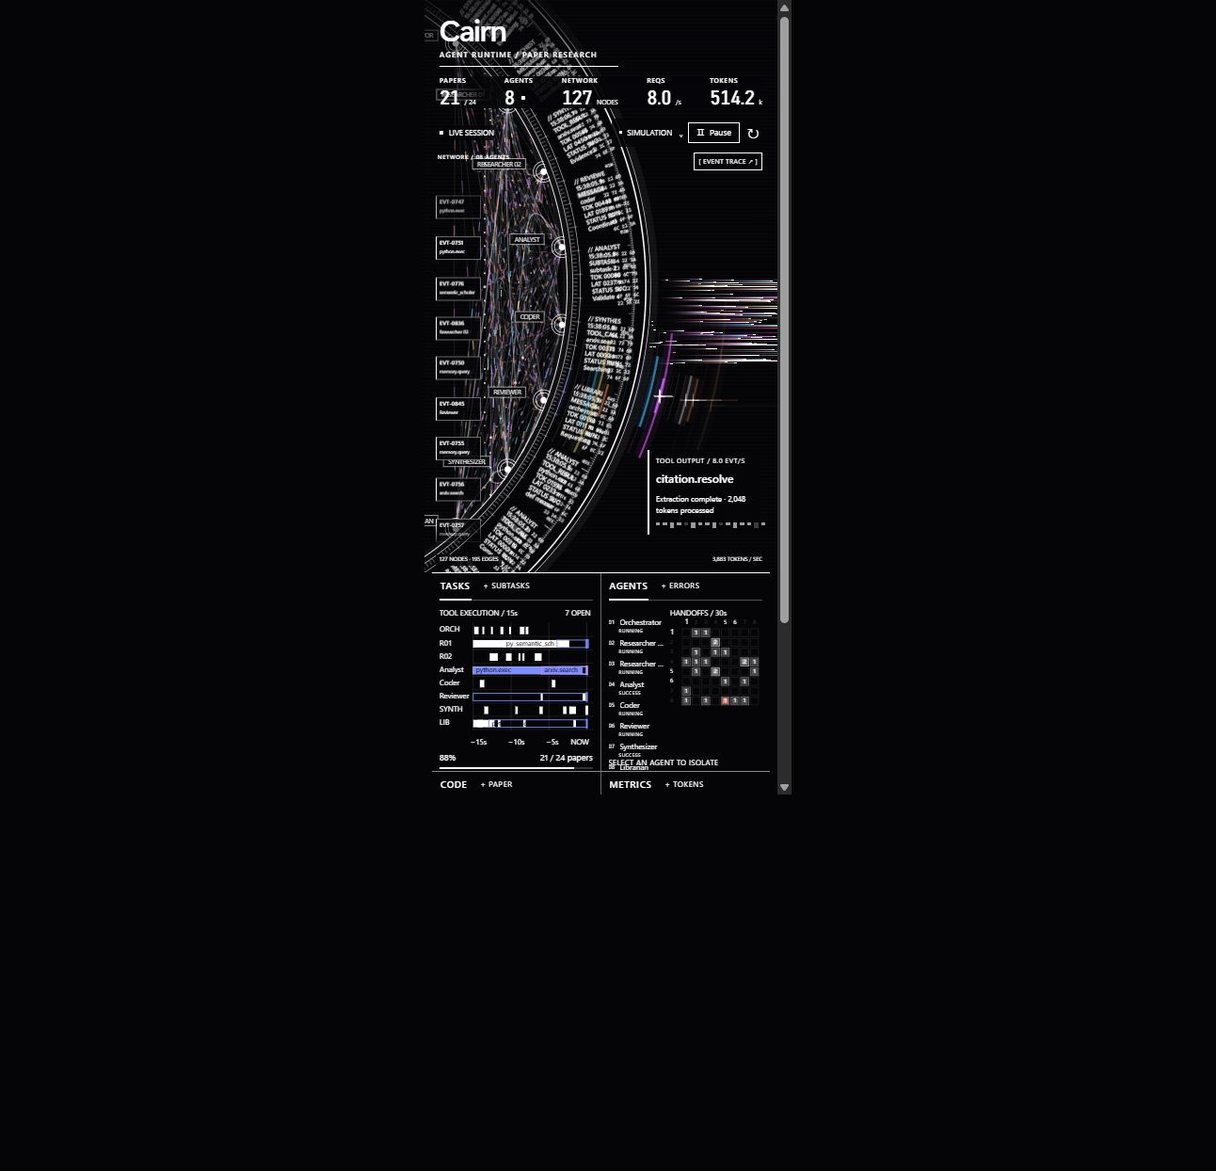
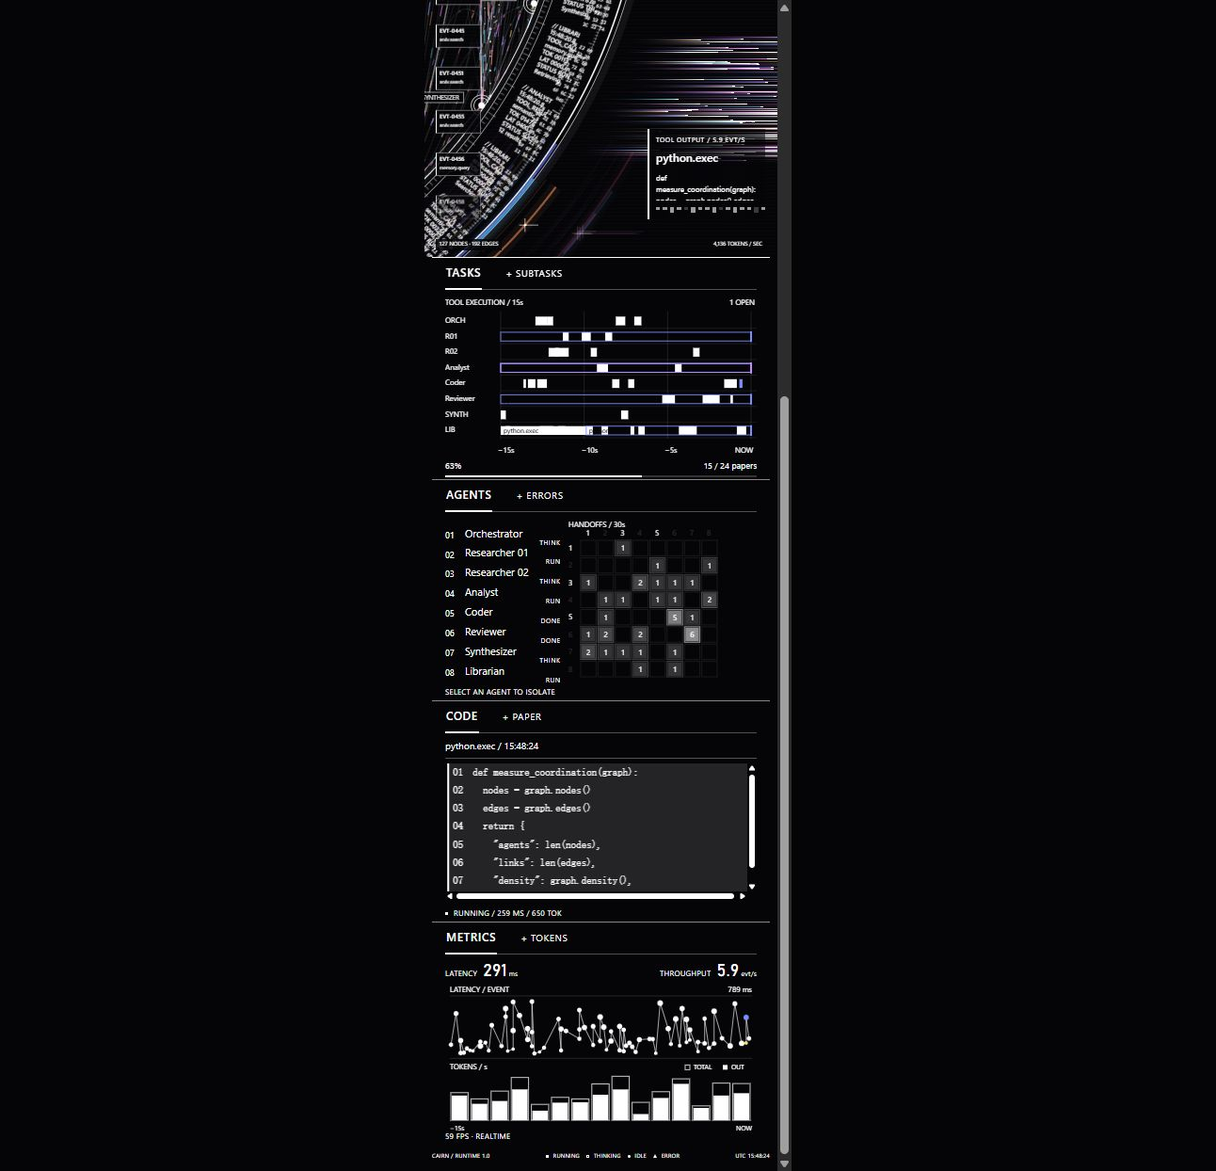
Update Site source

Changed region(s): [[0.3406, 0.0, 0.6502, 1.0]]

diff --git a/dist/app.js b/dist/app.js
@@ -28,7 +28,7 @@ const network=new Network($('network-canvas'),{nodes:new Map(),edges:new Map()},
 const micro=new EventInstruments(()=>engine,{onAgent:selectAgent});
 
 function boot(prime=true){
-  transport?.close();engine=new EventEngine({budget:engine?.budget??2000000,onBudget:()=>{syncPause();transport?.close();showNotice('Token 预算已用完，本地接收已暂停。提高预算后可继续，远端智能体不受影响。')}});network.engine=engine;selected=null;network.selected=null;horizon.ids=null;horizon.update([],null);stream.rays=[];energy.reset();$('latest-tool').textContent='—';$('latest-content').textContent='等待下一条事件';
+  transport?.close();engine=new EventEngine({budget:engine?.budget??2000000,onBudget:()=>{syncPause();transport?.close();showNotice('Token 预算已用完，本地接收已暂停。提高预算后可继续，远端智能体不受影响。')}});network.engine=engine;selected=null;network.selected=null;horizon.ids=null;horizon.update([],null);stream.reset();energy.reset();$('latest-tool').textContent='—';$('latest-content').textContent='等待下一条事件';
   transport=new Transport(engine,onTransportStatus);simulation=new Simulation(engine);mode=prime?'simulation':mode;started=Date.now();
   engine.subscribe(events=>{dispatch.push(events,engine.totalEvents);for(const e of events){if(e.type==='tool_call'||e.type==='tool_result')energy.spawn(e);if(['tool_result','output'].includes(e.type)){stream.spawn(e);$('latest-tool').textContent=e.tool||e.agentName;$('latest-content').textContent=e.content;if(e.type==='output'||/python|code|exec/.test(e.tool))renderCode(e.content,e)}}horizon.update(engine.events,selected)});
   if(!prime)renderCode('Waiting for code output…');
@@ -45,7 +45,8 @@ function togglePause(){if(!engine.paused){engine.pause('manual');if(mode!=='simu
 function selectAgent(id){selected=selected===id?null:id;network.selected=selected;$('selection-chip').hidden=!selected;$('selection-label').textContent=selected?engine.nodes.get(selected)?.name:'';horizon.ids='';horizon.update(engine.events,selected);logVersion=-1;renderAgents();if($('event-dialog').open)renderLog(true)}
 function renderAgents(){
   const agents=[...engine.nodes.values()].filter(n=>n.kind==='agent');$('active-agent-count').textContent=String(agents.length).padStart(2,'0');
-  $('agent-list').innerHTML=agents.slice(0,8).map((n,i)=>`<button class="agent-row ${selected===n.id?'selected':''}" data-agent="${escape(n.id)}" aria-pressed="${selected===n.id}" title="${escape(n.name)} — ${escape(n.status)}"><span class="agent-avatar">${String(i+1).padStart(2,'0')}</span><span class="agent-name">${escape(n.name)}</span><span class="agent-state" style="width:${9+Math.min(16,n.tokens/3000)}%"></span><span class="agent-status-label">${escape(n.status.toUpperCase().slice(0,7))}</span></button>`).join('')+(agents.length>8?`<button class="agent-more" id="more-agents">+ ${agents.length-8} more ↗</button>`:'');
+  const labels={running:'RUN',thinking:'THINK',idle:'IDLE',success:'DONE',complete:'DONE',error:'ERR',pending:'WAIT'};
+  $('agent-list').innerHTML=agents.slice(0,8).map((n,i)=>`<button class="agent-row ${selected===n.id?'selected':''}" data-agent="${escape(n.id)}" aria-pressed="${selected===n.id}" title="${escape(n.name)} — ${escape(n.status)}"><span class="agent-avatar">${String(i+1).padStart(2,'0')}</span><span class="agent-name">${escape(n.name)}</span><span class="agent-state" style="width:${9+Math.min(16,n.tokens/3000)}%"></span><span class="agent-status-label">${escape(labels[n.status]??n.status.toUpperCase())}</span></button>`).join('')+(agents.length>8?`<button class="agent-more" id="more-agents">+ ${agents.length-8} more ↗</button>`:'');
   $('agent-list').querySelectorAll('[data-agent]').forEach(b=>b.onclick=()=>selectAgent(b.dataset.agent));const more=$('more-agents');if(more)more.onclick=()=>openInspector();
 }
 function refreshUI(){
@@ -71,7 +72,7 @@ function refreshUI(){
 const codeLines=[['<span class="code-keyword">async def</span> <span class="code-function">coordinate</span>():'],['  <span class="code-comment"># shared intelligence</span>'],['  agents = <span class="code-keyword">await</span> spawn('],['    task=<span class="code-string">"research"</span>,'],['    workers=<span class="code-string">8</span>'],['  )'],['  <span class="code-keyword">for</span> agent <span class="code-keyword">in</span> agents:'],['    <span class="code-keyword">await</span> agent.<span class="code-function">run</span>()']];
 $('code-content').innerHTML=codeLines.map((l,i)=>`<span class="code-line"><span class="line-no">${i+1}</span>${l[0]}</span>`).join('');
 let codeHistory=[];
-function renderCode(content,event={}){const lines=content.split('\n').slice(0,12),previous=codeHistory;codeHistory=lines;$('code-content').innerHTML=lines.map((line,i)=>`<span class="code-line ${previous[i]!==line?'changed':''}"><span class="line-no">${String(i+1).padStart(2,'0')}</span>${escape(line)}</span>`).join('');document.querySelector('.code-panel .file-label').textContent=`${event.tool||'stdout'}${event.timestamp?' / '+new Date(event.timestamp).toISOString().slice(11,19):''}`;$('code-status').textContent=event.type?`${event.status.toUpperCase()} / ${event.latencyMs} MS / ${event.tokens} TOK`:'WAITING FOR OUTPUT';}
+function renderCode(content,event={}){let formatted=String(content);if(/^\s*[\[{]/.test(formatted))try{formatted=JSON.stringify(JSON.parse(formatted),null,2)}catch{}const lines=formatted.split('\n').slice(0,120),previous=codeHistory;codeHistory=lines;$('code-content').innerHTML=lines.map((line,i)=>`<span class="code-line ${previous[i]!==line?'changed':''}"><span class="line-no">${String(i+1).padStart(2,'0')}</span>${escape(line)}</span>`).join('');document.querySelector('.code-panel .file-label').textContent=`${event.tool||'stdout'}${event.timestamp?' / '+new Date(event.timestamp).toISOString().slice(11,19):''}`;$('code-status').textContent=event.type?`${event.status.toUpperCase()} / ${event.latencyMs} MS / ${event.tokens} TOK`:'WAITING FOR OUTPUT';}
 
 function openInspector(){logVersion=-1;$('event-dialog').showModal();renderLog(true)}
 function renderLog(force=false){

diff --git a/dist/instruments.js b/dist/instruments.js
@@ -8,7 +8,7 @@ const short=n=>n.name.replace('Researcher ','R').replace('Orchestrator','ORCH').
 export class EventInstruments{
   constructor(getEngine,{onAgent=()=>{}}={}){this.getEngine=getEngine;this.onAgent=onAgent;this.views={};this.hits={};this.version=-1;this.now=Date.now();this.model=null;
     for(const kind of ['tasks','agents','metrics']){const panel=document.querySelector(`.${kind}-panel`),canvas=document.createElement('canvas');canvas.className=`event-instrument instrument-${kind}`;canvas.setAttribute('aria-label',({tasks:'Actual tool execution spans by agent. Hover for durations and token counts.',agents:'Agent handoff matrix: each cell counts real source-to-target messages.',metrics:'Latency and token consumption plotted from actual event timestamps.'})[kind]);panel.append(canvas);this.views[kind]=new CanvasSurface(canvas);const tip=document.createElement('div');tip.className='instrument-tooltip';tip.hidden=true;panel.append(tip);
-      canvas.addEventListener('pointermove',event=>{const r=canvas.getBoundingClientRect(),x=event.clientX-r.left,y=event.clientY-r.top,hit=(this.hits[kind]??[]).find(a=>x>=a.x&&x<=a.x+a.w&&y>=a.y&&y<=a.y+a.h);canvas.style.cursor=hit?'pointer':'default';tip.hidden=!hit;if(hit){tip.textContent=hit.label;tip.style.left=`${clamp(x,0,panel.clientWidth-180)}px`;tip.style.top=`${Math.max(0,y-45)}px`}});canvas.addEventListener('pointerleave',()=>tip.hidden=true);canvas.addEventListener('click',event=>{const r=canvas.getBoundingClientRect(),x=event.clientX-r.left,y=event.clientY-r.top,hit=(this.hits[kind]??[]).find(a=>x>=a.x&&x<=a.x+a.w&&y>=a.y&&y<=a.y+a.h);if(hit?.agent)this.onAgent(hit.agent)})
+      canvas.addEventListener('pointermove',event=>{const r=canvas.getBoundingClientRect(),x=event.clientX-r.left,y=event.clientY-r.top,hit=(this.hits[kind]??[]).find(a=>x>=a.x&&x<=a.x+a.w&&y>=a.y&&y<=a.y+a.h);canvas.style.cursor=hit?(hit.agent?'pointer':'help'):'default';tip.hidden=!hit;if(hit){const box=panel.getBoundingClientRect();tip.textContent=hit.label;tip.style.maxWidth=`${Math.max(80,box.width-8)}px`;tip.style.left=`${clamp(event.clientX-box.left+8,4,Math.max(4,box.width-tip.offsetWidth-4))}px`;tip.style.top=`${clamp(event.clientY-box.top-tip.offsetHeight-8,2,Math.max(2,box.height-tip.offsetHeight-2))}px`}});canvas.addEventListener('pointerleave',()=>tip.hidden=true);canvas.addEventListener('click',event=>{const r=canvas.getBoundingClientRect(),x=event.clientX-r.left,y=event.clientY-r.top,hit=(this.hits[kind]??[]).find(a=>x>=a.x&&x<=a.x+a.w&&y>=a.y&&y<=a.y+a.h);if(hit?.agent)this.onAgent(hit.agent)})
     }
   }
   step(){}
@@ -34,7 +34,7 @@ export class EventInstruments{
     c.font='8px Segoe UI,Arial,sans-serif';c.fillStyle='#fff';c.fillText('LATENCY / EVENT',left,8);c.textAlign='right';c.fillText(`${Math.round(maxLatency)} ms`,right,8);c.textAlign='left';for(const y of [top,middle-8,bottom]){c.globalAlpha=.25;c.strokeStyle='#fff';c.lineWidth=.5;c.beginPath();c.moveTo(left,y);c.lineTo(right,y);c.stroke()}c.globalAlpha=1;
     const points=latency.map(a=>({event:a,x:left+(time(a)-start)/15000*plot,y:middle-10-a.latencyMs/maxLatency*(middle-top-16)}));c.beginPath();points.forEach((p,i)=>i?c.lineTo(p.x,p.y):c.moveTo(p.x,p.y));c.strokeStyle='#fff';c.lineWidth=.8;c.globalAlpha=.8;c.stroke();c.globalAlpha=1;
     for(const p of points){const fresh=this.now-time(p.event)<500,r=1.5+Math.min(2.3,Math.sqrt(p.event.tokens/800));c.fillStyle=fresh?colors[hash(p.event.eventId)%colors.length]:'#fff';c.beginPath();c.arc(p.x,p.y,r,0,Math.PI*2);c.fill();this.hits.metrics.push({x:p.x-4,y:p.y-4,w:8,h:8,label:`${p.event.tool||p.event.agentName}\n${p.event.latencyMs} ms · ${p.event.tokens} tokens`,agent:p.event.agentId})}
-    const buckets=Array.from({length:15},()=>[0,0]);for(const event of events){const idx=clamp(Math.floor((time(event)-start)/1000),0,14),output=['tool_result','output','message'].includes(event.type);buckets[idx][output?1:0]+=event.tokens}const max=Math.max(1,...buckets.map(a=>a[0]+a[1])),bar=plot/15;c.font='8px Segoe UI,Arial,sans-serif';c.fillStyle='#fff';c.fillText('TOKENS / SECOND',left,middle+4);
+    const buckets=Array.from({length:15},()=>[0,0]);for(const event of events){const idx=clamp(Math.floor((time(event)-start)/1000),0,14),output=['tool_result','output','message'].includes(event.type);buckets[idx][output?1:0]+=event.tokens}const max=Math.max(1,...buckets.map(a=>a[0]+a[1])),bar=plot/15;c.font='8px Segoe UI,Arial,sans-serif';c.fillStyle='#fff';c.fillText('TOKENS / s',left,middle+4);c.font='7px Segoe UI,Arial,sans-serif';c.strokeStyle='#fff';c.lineWidth=.7;c.strokeRect(right-71,middle-1,5,5);c.fillText('TOTAL',right-62,middle+4);c.fillRect(right-31,middle-1,5,5);c.fillText('OUT',right-22,middle+4);
     buckets.forEach((b,i)=>{const x=left+i*bar+1,height=(b[0]+b[1])/max*(bottom-middle-11),y=bottom-height;c.globalAlpha=1;c.strokeStyle='#fff';c.lineWidth=.65;c.strokeRect(x,y,Math.max(1,bar-3),height);if(b[1]){c.fillStyle=i===14?colors[hash(events.at(-1)?.eventId??'')%colors.length]:'#fff';const oh=b[1]/max*(bottom-middle-11);c.fillRect(x+1,bottom-oh,Math.max(1,bar-5),oh)}this.hits.metrics.push({x,y:middle+8,w:bar,h:bottom-middle-8,label:`${15-i}s ago · input ${b[0]} / output ${b[1]} tokens`})});c.fillStyle='#fff';c.fillText('−15s',left,h-2);c.textAlign='right';c.fillText('NOW',right,h-2);c.textAlign='left';c.globalAlpha=1;
   }
 }

diff --git a/dist/gpu-stream.js b/dist/gpu-stream.js
@@ -10,13 +10,16 @@ export class GPUStream{
     const gl=canvas.getContext('webgl',{alpha:true,antialias:false,premultipliedAlpha:false,depth:false,stencil:false,powerPreference:'high-performance'});
     if(!gl){canvas.dataset.renderer='canvas';return new CanvasStream(canvas)}
     this.canvas=canvas;this.gl=gl;this.rays=[];this.seed=2871;this.width=0;this.height=0;this.dpr=Math.min(devicePixelRatio||1,1.25);this.reduced=matchMedia('(prefers-reduced-motion: reduce)').matches;this.vertices=new Float32Array(4600*8*6);this.contextLost=false;
-    const vertex=this.shader(gl.VERTEX_SHADER,'attribute vec2 a_position; attribute vec4 a_color; uniform vec2 u_resolution; varying vec4 v_color; void main(){vec2 p=a_position/u_resolution*2.0-1.0;gl_Position=vec4(p.x,-p.y,0.0,1.0);v_color=a_color;}');
+    try{const vertex=this.shader(gl.VERTEX_SHADER,'attribute vec2 a_position; attribute vec4 a_color; uniform vec2 u_resolution; varying vec4 v_color; void main(){vec2 p=a_position/u_resolution*2.0-1.0;gl_Position=vec4(p.x,-p.y,0.0,1.0);v_color=a_color;}');
     const fragment=this.shader(gl.FRAGMENT_SHADER,'precision mediump float; varying vec4 v_color; void main(){gl_FragColor=v_color;}');
     const program=gl.createProgram();gl.attachShader(program,vertex);gl.attachShader(program,fragment);gl.linkProgram(program);if(!gl.getProgramParameter(program,gl.LINK_STATUS))throw new Error('Output shader could not link');gl.useProgram(program);gl.deleteShader(vertex);gl.deleteShader(fragment);this.program=program;
     this.buffer=gl.createBuffer();gl.bindBuffer(gl.ARRAY_BUFFER,this.buffer);gl.bufferData(gl.ARRAY_BUFFER,this.vertices.byteLength,gl.DYNAMIC_DRAW);
     const pos=gl.getAttribLocation(program,'a_position'),color=gl.getAttribLocation(program,'a_color');gl.enableVertexAttribArray(pos);gl.vertexAttribPointer(pos,2,gl.FLOAT,false,24,0);gl.enableVertexAttribArray(color);gl.vertexAttribPointer(color,4,gl.FLOAT,false,24,8);this.resolution=gl.getUniformLocation(program,'u_resolution');gl.enable(gl.BLEND);gl.blendFunc(gl.SRC_ALPHA,gl.ONE);gl.disable(gl.DEPTH_TEST);canvas.dataset.renderer='webgl';this.resize();this.observer=new ResizeObserver(()=>this.resize());this.observer.observe(canvas);
-    canvas.addEventListener('webglcontextlost',e=>{e.preventDefault();this.contextLost=true;canvas.dataset.renderer='recovering'});canvas.addEventListener('webglcontextrestored',()=>{const replacement=canvas.cloneNode();canvas.replaceWith(replacement);this.fallback=new CanvasStream(replacement);replacement.dataset.renderer='canvas';this.contextLost=false});
+    canvas.addEventListener('webglcontextlost',e=>{e.preventDefault();this.contextLost=true;canvas.dataset.renderer='recovering'});canvas.addEventListener('webglcontextrestored',()=>this.useFallback());
+    }catch{this.useFallback()}
   }
+  useFallback(){this.observer?.disconnect();const replacement=this.canvas.cloneNode();this.canvas.replaceWith(replacement);this.fallback=new CanvasStream(replacement);replacement.dataset.renderer='canvas';this.contextLost=false;this.rays=[]}
+  reset(){this.rays=[];this.fallback?.reset()}
   shader(type,source){const gl=this.gl,s=gl.createShader(type);gl.shaderSource(s,source);gl.compileShader(s);if(!gl.getShaderParameter(s,gl.COMPILE_STATUS))throw new Error('Output shader could not compile');return s}
   resize(){const rect=this.canvas.getBoundingClientRect();this.width=rect.width;this.height=rect.height;this.canvas.width=Math.round(rect.width*this.dpr);this.canvas.height=Math.round(rect.height*this.dpr);this.gl.viewport(0,0,this.canvas.width,this.canvas.height)}
   rand(){this.seed=(Math.imul(this.seed,1664525)+1013904223)>>>0;return this.seed/4294967296}

diff --git a/dist/field.js b/dist/field.js
@@ -11,7 +11,7 @@ export class DispatchTape{
   constructor(element){this.element=element;this.items=[];this.pending=new Map();this.seen=new Set();this.height=element.clientHeight;this.reduced=matchMedia('(prefers-reduced-motion: reduce)').matches;this.observer=new ResizeObserver(()=>{const next=element.clientHeight,ratio=this.height?next/this.height:1;this.items.forEach(item=>item.y*=ratio);this.height=next;this.draw()});this.observer.observe(element)}
   reset(){this.items=[];this.pending.clear();this.seen.clear();this.element.replaceChildren()}
   seed(events,total){this.reset();this.height=this.element.clientHeight;const count=Math.max(4,Math.min(16,Math.floor(this.height/44))),spacing=this.height/count;events.slice(0,count).map((event,i)=>({event,sequence:total-i})).reverse().forEach((data,i)=>{this.add(data,8+i*spacing);this.seen.add(data.event.eventId)});this.draw()}
-  push(events,total){events.forEach((event,i)=>{if(this.seen.has(event.eventId))return;this.seen.add(event.eventId);if(this.seen.size>1000)this.seen.delete(this.seen.values().next().value);const key=[event.agentId,event.type,event.tool].join('|');this.pending.set(key,{event,sequence:total-events.length+i+1});if(this.pending.size>64)this.pending.delete(this.pending.keys().next().value)})}
+  push(events,total){events.forEach((event,i)=>{if(this.seen.has(event.eventId))return;this.seen.add(event.eventId);if(this.seen.size>1000)this.seen.delete(this.seen.values().next().value);const key=[event.agentId,event.type,event.tool].join('|');this.pending.delete(key);this.pending.set(key,{event,sequence:total-events.length+i+1});if(this.pending.size>64)this.pending.delete(this.pending.keys().next().value)})}
   add(data,y){const box=document.createElement('div');box.className='dispatch-item';box.dataset.eventId=data.event.eventId;const line=document.createElement('strong'),id=document.createElement('span'),tokens=document.createElement('span'),detail=document.createElement('small');id.textContent=`EVT-${String(data.sequence).padStart(4,'0')}`;tokens.textContent=`${data.event.tokens}t`;detail.textContent=data.event.tool||data.event.agentName;line.append(id,tokens);box.append(line,detail);this.element.append(box);this.items.push({...data,box,y})}
   step(dt){if(!this.height)return;const spacing=Math.max(40,this.height/16),speed=this.reduced?0:Math.min(1.5, .65+this.pending.size*.018);for(const item of this.items)item.y-=speed*dt;while(this.items.length&&this.items[0].y<-45){this.items.shift().box.remove()}
     const last=this.items.at(-1);if(this.pending.size&&(!last||last.y<=this.height-spacing)){const [key,data]=this.pending.entries().next().value;this.pending.delete(key);this.add(data,this.height+2)}
@@ -22,6 +22,7 @@ export class DispatchTape{
 export class CanvasSurface{
   constructor(canvas){this.canvas=canvas;this.ctx=canvas.getContext('2d',{alpha:true});this.width=0;this.height=0;this.dpr=Math.min(devicePixelRatio||1,1.25);this.resize();this.observer=new ResizeObserver(()=>this.resize());this.observer.observe(canvas)}
   resize(){const r=this.canvas.getBoundingClientRect();if(this.width===r.width&&this.height===r.height)return;this.width=r.width;this.height=r.height;this.canvas.width=Math.round(r.width*this.dpr);this.canvas.height=Math.round(r.height*this.dpr);this.ctx?.setTransform(this.dpr,0,0,this.dpr,0,0);if(this.engine)for(const n of this.engine.nodes.values())n.positioned=false}
+  reset(){if(this.rays)this.rays=[];this.ctx?.clearRect(0,0,this.width,this.height)}
 }
 
 export class Network extends CanvasSurface{

diff --git a/dist/event-panels.css b/dist/event-panels.css
@@ -4,3 +4,4 @@
 @media(max-width:520px){.dock-module .agents-panel .agent-row{font-size:8px!important;grid-template-columns:9px minmax(0,1fr)}.dock-module .agents-panel .agent-status-label{font-size:5px!important;left:11px}.dock-module .agents-panel .agent-avatar{font-size:6px!important}.dock-module .code-panel pre{font-size:8px!important;line-height:1.75}.dock-module .code-panel .file-label{font-size:8px!important}.dock-module .metrics-panel .metric-caption{font-size:6px!important}.dock-module .metrics-panel .metric-caption strong{font-size:12px!important}.instrument-tooltip{font-size:8px;max-width:150px}}
 @media(min-width:1700px){.dock-module .agents-panel .agent-list{gap:6px}}
 .dock-module .agents-panel .agent-list{height:calc(100% - 26px);display:grid;grid-template-rows:repeat(8,minmax(0,1fr));gap:0}.dock-module .agents-panel .agent-row{height:100%;min-height:0!important;grid-template-columns:14px minmax(0,1fr);grid-template-rows:minmax(0,1fr) 7px;align-items:center;row-gap:0!important}.dock-module .agents-panel .agent-avatar{grid-column:1;grid-row:1 / 3;align-self:start;margin-top:3px}.dock-module .agents-panel .agent-name{grid-column:2;grid-row:1;line-height:1.1}.dock-module .agents-panel .agent-status-label{position:static;grid-column:2;grid-row:2;text-align:left;line-height:1;align-self:start}.dock-module .code-panel pre{overflow:auto;scrollbar-width:thin;scrollbar-color:#fff #050508}
+@media(max-width:520px){.panels{grid-template-columns:minmax(0,1fr);grid-auto-rows:235px}.dock-module{padding:0 14px;border-right:0}.dock-module+.dock-module{border-top:1px solid #ffffff85}.dock-tabs{height:34px;min-height:34px;gap:24px}.dock-tabs button{font-size:12px!important}.dock-tabs button[aria-selected=false]{font-size:10px!important}.dock-module .agents-panel .agent-row{font-size:11px!important;grid-template-columns:18px minmax(0,1fr);grid-template-rows:minmax(0,1fr) 9px}.dock-module .agents-panel .agent-avatar{font-size:9px!important;width:auto}.dock-module .agents-panel .agent-status-label{font-size:7px!important}.dock-module .code-panel pre{font-size:11px!important}.dock-module .code-panel .file-label{font-size:10px!important}.dock-module .metrics-panel .metric-caption{font-size:8px!important;gap:6px}.dock-module .metrics-panel .metric-caption strong{font-size:18px!important}.dock-module .panel-foot,.dock-module .budget-button{font-size:8px!important}.dock-module .paper-name,.dock-module .subtask-item{font-size:12px}.dock-module .paper-list,.dock-module .subtask-item small{font-size:10px}.dock-module .token-total{font-size:34px}.dock-module .token-breakdown{font-size:10px}}

diff --git a/dist/effects.js b/dist/effects.js
@@ -9,7 +9,7 @@ export class Energy extends CanvasSurface{
   spawn(e){if(this.reduced)return;const seed=hash(e.eventId);if(this.pulses.length>22)this.pulses.shift();this.pulses.push({age:0,speed:.006+Math.min(e.tokens/800000,.005),angle:((seed%1000)/1000-.5)*1.8,width:.035+Math.min(e.tokens/10000,.12),color:spectrum[seed%spectrum.length]})}
   step(dt){this.time+=dt;for(const p of this.pulses)p.age+=p.speed*dt;this.pulses=this.pulses.filter(p=>p.age<1.15)}
   draw(){const c=this.ctx;if(!c)return;const w=this.width,h=this.height,g=fieldGeometry(w,h);c.clearRect(0,0,w,h);if(this.reduced)return;c.save();c.globalCompositeOperation='lighter';
-    for(const p of this.pulses){const radius=g.inner+(g.outer-g.inner+90)*p.age,alpha=Math.sin(clamp(p.age,0,1)*Math.PI)*.85;for(let echo=0;echo<3;echo++){const r=radius-echo*13;c.strokeStyle=p.color;c.globalAlpha=alpha*(echo?.20:.65);c.lineWidth=echo?1:2.2;c.beginPath();c.arc(g.cx,g.cy,r,p.angle-p.width,p.angle+p.width);c.stroke();if(!echo){c.globalAlpha=alpha*.07;c.lineWidth=13;c.stroke()}}
+    for(const p of this.pulses){const radius=g.inner+(g.outer-g.inner+90)*p.age,alpha=Math.sin(clamp(p.age,0,1)*Math.PI)*.85*(radius>g.inner+18&&radius<g.outer-18?.18:1);for(let echo=0;echo<3;echo++){const r=radius-echo*13;c.strokeStyle=p.color;c.globalAlpha=alpha*(echo?.20:.65);c.lineWidth=echo?1:2.2;c.beginPath();c.arc(g.cx,g.cy,r,p.angle-p.width,p.angle+p.width);c.stroke();if(!echo){c.globalAlpha=alpha*.07;c.lineWidth=13;c.stroke()}}
       if(p.age>.62){const a=p.angle,x=g.cx+Math.cos(a)*radius,y=g.cy+Math.sin(a)*radius;const reach=(p.age-.62)*w*.55;c.strokeStyle=p.color;c.globalAlpha=alpha*.7;c.lineWidth=.8;c.beginPath();c.moveTo(x,y);c.lineTo(x+reach,y);c.stroke();c.strokeStyle='#ffffff';c.globalAlpha=alpha;c.beginPath();c.moveTo(x-6,y);c.lineTo(x+14,y);c.moveTo(x,y-7);c.lineTo(x,y+7);c.stroke()}
     }
     const sweep=Math.sin(this.time*.0033)*1.1;for(let layer=0;layer<3;layer++){const radius=g.outer+layer*4;c.strokeStyle=spectrum[(Math.floor(this.time/90)+layer)%spectrum.length];c.lineWidth=layer?1:3;c.globalAlpha=layer?.35:.7;c.beginPath();c.arc(g.cx,g.cy,radius,sweep-.075,sweep+.075);c.stroke()}c.restore();

diff --git a/README.md b/README.md
@@ -57,6 +57,6 @@ npm run demo:sse
 
 ## 设计与实现
 
-以用户提供的 1920×1080、约 16 秒视频为构图参考：左侧连线汇入侧向巨大圆环，文字块沿弧面转动，右侧高速平行输出，底部贴合主场景。背景 #050508、文字与刻度 #fff；流动信号随机炫彩。界面用 Segoe UI，数字用 Bahnschrift，原始代码与字节矩阵使用等宽字体；无远程字体依赖。底部默认 4 区、每区 2 个页签；≤800px 调整为 2 列。
+以用户提供的 1920×1080、约 16 秒视频为构图参考：左侧连线汇入侧向巨大圆环，文字块沿弧面转动，右侧高速平行输出，底部贴合主场景。背景 #050508、文字与刻度 #fff；流动信号随机炫彩。界面用 Segoe UI，数字用 Bahnschrift，原始代码与字节矩阵使用等宽字体；无远程字体依赖。底部默认 4 区、每区 2 个页签；≤800px 调整为 2 列，≤520px 改为单列，避免压缩文字。
 
 网络、执行跨度、路由矩阵和事件冲击波使用 Canvas，事件文字环使用 SVG；数千条射线使用小型 WebGL 着色器一次提交绘制，支持 Canvas 回退。GPU 输出替换了逐条创建渐变的实现，避免高密度输出卡顿。设备像素比上限 1.25；网络物理计算约 30Hz，300 节点以上约 15Hz；场景由 requestAnimationFrame 渲染。reduced-motion 停止环转动、射线与冲击波，事件数据照常更新。支持键盘焦点、原生模态框、页签方向键、纯文本事件检查器和图形文字说明。
